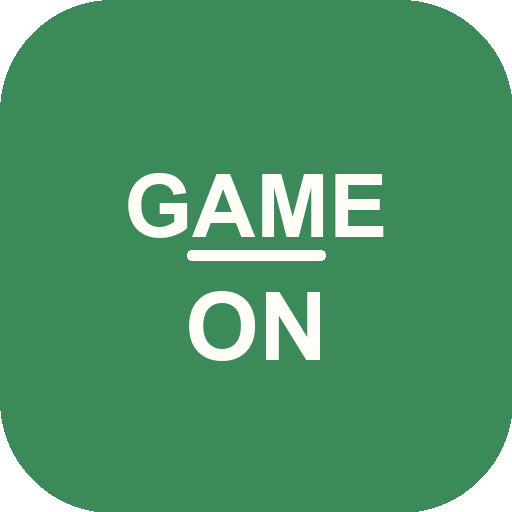
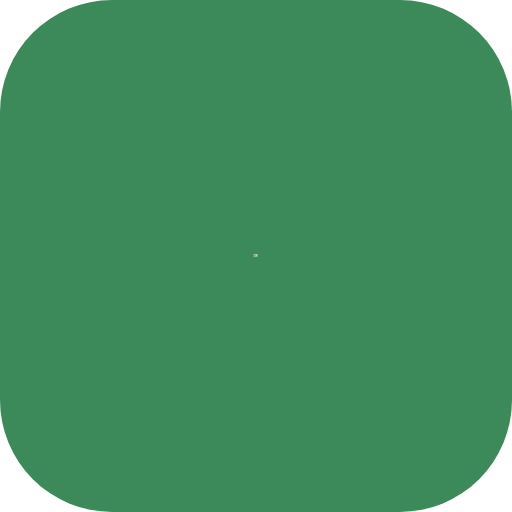
重做图标：票根造型 + 项目色标记
原图标是「GAME / ON」两行纯文字，跟应用的票根视觉语言脱节，
小尺寸下四个字母也太挤。改成延续票根语言：

- 白色票根主体（右侧两个向内凹的撕口半圆 + 虚线 + 副券打孔）
- 主券「GO」用 Barlow Condensed 800 字重，描边加粗保底
- 主券底部四个项目色圆点：网球黄 / 足球绿 / F1 橙 / 电竞蓝
  —— 一眼看出是综合体育应用

修一个技术错误：apple-touch-icon 之前自带圆角，iOS 会再套一层
圆角变成「圆角套圆角」。现在 180 版是满幅方形，iOS 自己切。
maskable 版收缩到 Android 安全区内。

图标改用 Chrome 渲染（scripts/render-icons.sh + icon-source.svg），
不再用 PIL —— PIL 不支持 woff2，Barlow Condensed 显示不出来。

Service Worker 缓存版本 v1 → v2：图标换了必须 bump，
否则手机上还是旧图标。manifest 补上 180 那档。

diff --git a/sw.js b/sw.js
@@ -10,7 +10,12 @@
  *   - 换版本时清掉旧缓存
  */
 
-const VERSION = 'v1';
+/**
+ * 缓存版本号。
+ * 改动图标 / JS / CSS 时必须同步 bump，否则 Service Worker 会继续用旧缓存，
+ * 用户的手机上还是旧图标。图标变更时尤其重要 —— 浏览器会单独缓存图标。
+ */
+const VERSION = 'v2';
 const SHELL_CACHE = `gameon-shell-${VERSION}`;
 const DATA_CACHE = `gameon-data-${VERSION}`;
 
@@ -33,7 +38,6 @@ const SHELL = [
   './fonts/barlow-condensed-latin-600-normal.woff2',
   './fonts/barlow-condensed-latin-700-normal.woff2',
 ];
-
 self.addEventListener('install', (event) => {
   event.waitUntil(
     caches.open(SHELL_CACHE)

diff --git a/index.html b/index.html
@@ -11,6 +11,7 @@
 <meta name="apple-mobile-web-app-title" content="Game On">
 <meta name="apple-mobile-web-app-status-bar-style" content="default">
 <link rel="icon" href="icons/icon.svg" type="image/svg+xml">
+<link rel="icon" href="icons/icon-192.png" sizes="192x192" type="image/png">
 <link rel="apple-touch-icon" href="icons/icon-180.png">
 <link rel="manifest" href="manifest.webmanifest">
 <link rel="stylesheet" href="css/styles.css">
